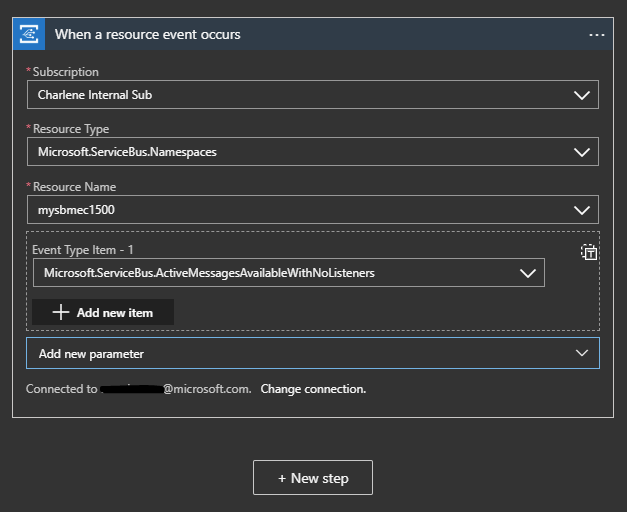
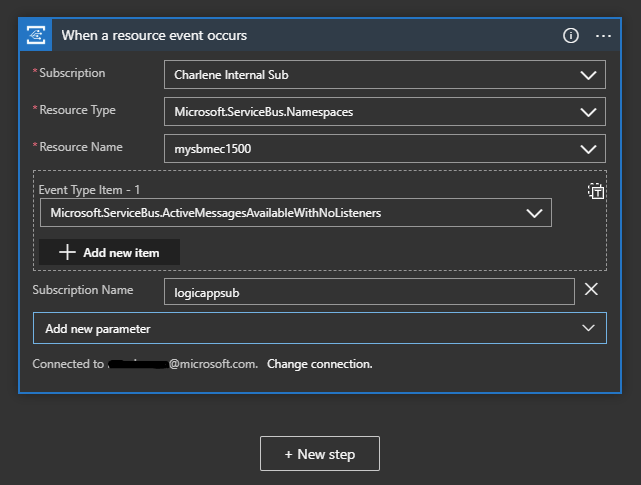
almost..

Changed region(s): [[0.0, 0.0309, 1.0, 0.8351], [0.3939, 0.8969, 0.6061, 0.9897]]

diff --git a/README.md b/README.md
@@ -18,7 +18,9 @@
 
 <img src="imgs/CreateSB.PNG">
 
-3. Enter a **unique name** for your service bus, select the **standard** pricing tier and create a new **resource group** - call it anything you like, and choose a **location**.
+3. Enter a **unique name** for your service bus, select the **Premium** pricing tier and create a new **resource group** - call it anything you like, and choose a **location**.
+
+CHANGE ME!
 
 <img src="imgs/CreateSB2.PNG">
 
@@ -105,6 +107,65 @@ We could use either, however - the first trigger uses a polling method under the
 
 5. You should now see a list of fields that we need to complete.  Choose your subscription, and for Resource Type, choose **Microsoft.ServiceBus.Namespaces**. Choose your service bus in the next field, and finally add an event type of **Microsoft.ServiceBus.ActiveMessagesAvailableWithNoListeners**. 
 
+Click on **+ Add new parameter** and choose **Subscription Name** and call it **logicappsub**. 
+
 <img src="imgs/logicapp4.PNG">
 
-6. Click on **+ New Step**. 
+
+6. Click **+ New Step**.
+
+7. Search for **service bus** under **Choose an action**, and then choose **Get messages from a queue (peek-lock)**. 
+
+<img src="imgs/logicapp5.PNG">
+
+<img src="imgs/logicapp6.PNG">
+
+8. On the next screen, give the connection a name (this can be anything) and choose your service bus namespace.  You will need to choose an access policy - for this, simply choose **RootManageSharedAccessKey** and click **Create**.
+
+<img src="imgs/logicapp7.PNG">
+
+9. Select your service bus queue and leave everything else on default. 
+
+<img src="imgs/sb.PNG">
+
+10. We could multiple things at this point - there are over 200 built in connectors for Logic Apps, connecting to enterprise applications such as Dynamics, SAP, Office 365 and to consumer applications such as Dropbox, Gmail and Outlook. 
+
+In the next lab, we will look at Logic Apps in more depth, so for now - let's simply send an email to confirm that an order has been received.
+
+11. Click on **+ New Step** and choose whichever email provider you prefer.  In this example, I will use an Office 365 Outlook connector.
+
+12. Once you have authenticated, you can begin to build out the content of your email.
+
+You will notice that when you click on the fields, you have access to **dynamic data** based on previous actions. 
+
+<img src="imgs/logicapp8.PNG">
+
+If I click on **Body** and choose **Content** as the dynamic data, the Logic App is smart enough to switch to a foreach loop. 
+
+Now, for every service bus message processed, it will send an email with the content of that specific message. 
+
+<img src="imgs/logicapp9.PNG">
+
+13. Finally, once the Logic App has processed the message, we need to tell service bus to go ahead and complete the message - it has been dealt with. Happily, there is an action for that! Click on **Add an action** directly below the **Send an email** step, and choose **Service Bus** 
+
+14. Look for **Complete the message in a queue** and complete it so it looks like the below image.  When you click on the **Lock token** and **Session id** fields, you should be able to choose from the dynamic data pop out as shown above. 
+
+<img src="imgs/logicapp10.PNG">
+
+15. Finally, save and run your workflow!
+
+
+
+
+
+
+
+
+event grid exploration... 
+
+
+In the search bar at the top, search for **Event Grid Subscriptions** and click on it. Filter on **Topic Type - Service Bus Namespaces** and your subscription and location. You should see an **Event Grid Subscription** matching the name you chose in the Logic App step. Click on it. 
+
+You will see some metrics and 
+
+<img src="imgs/eventgridsub.PNG">
